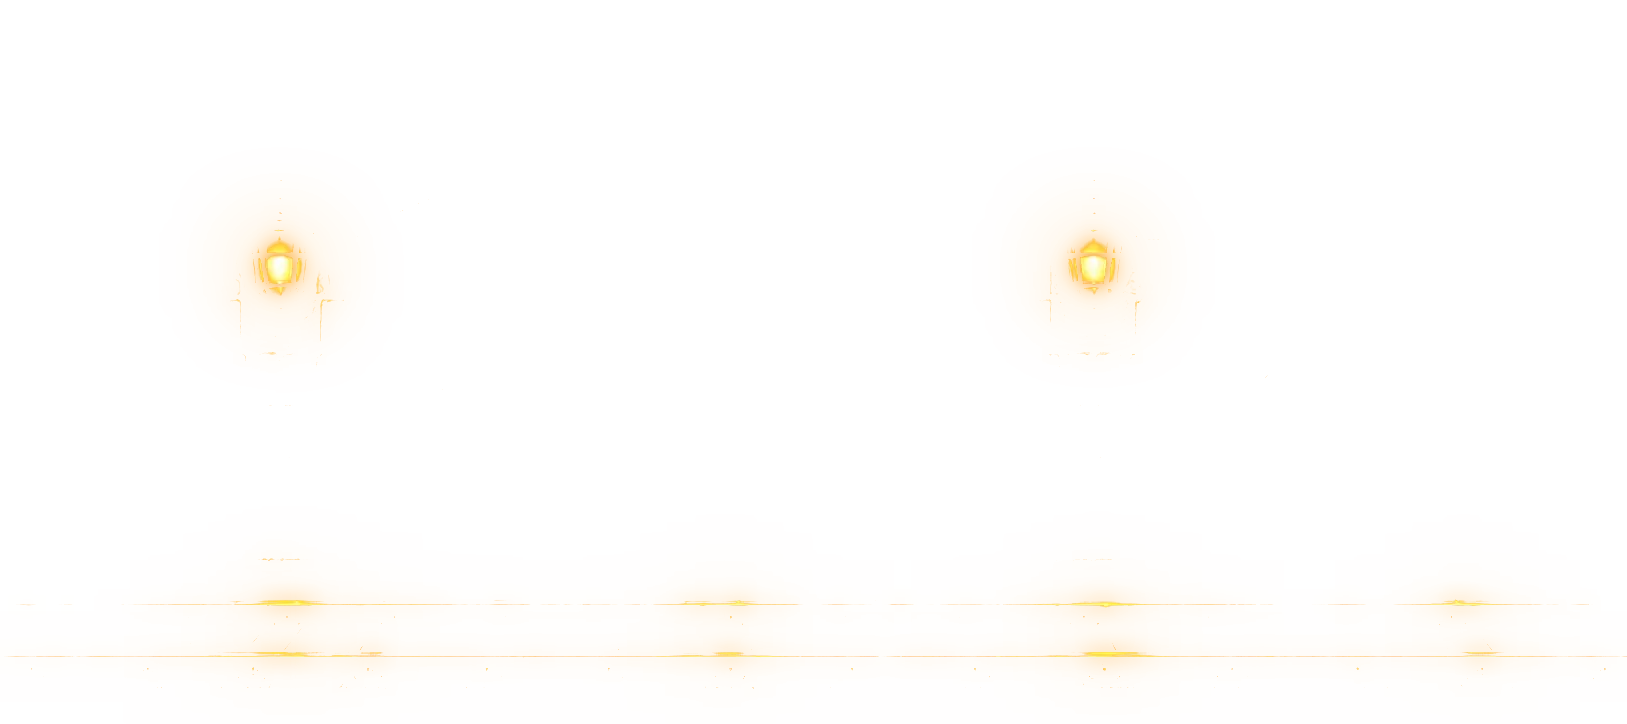
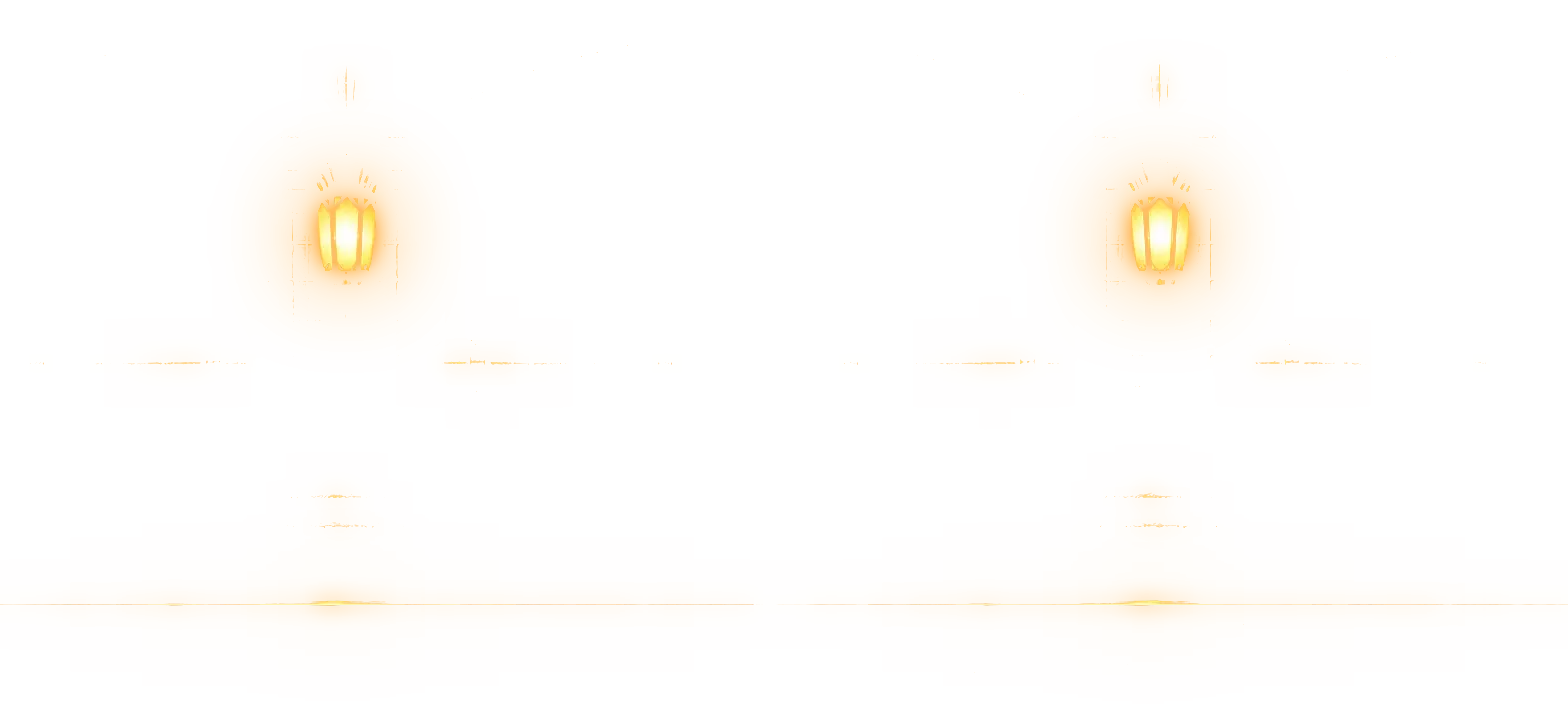
Express : la nouvelle image du tunnel, à la bonne proportion
Le tunnel (arches, piliers, lanternes) tient en entier dans la scène ; son rail est
calé sur la voie, sa tuile raccordée. Les lanternes et leur halo sont refaits
d'après la nouvelle image.

Claude-Session: https://claude.ai/code/session_01Vs3Q35NuqGK4HWxeJkBpbC

diff --git a/CasinoBaronExpress.tsx b/CasinoBaronExpress.tsx
@@ -97,7 +97,7 @@ const ISTANBUL = { terminus: 3300, coffre: 5000, ouverture: 6700, compte: 1900 }
 /** Entre deux décors, le train passe un tunnel : l'obscurité monte, les lampes défilent, puis le nouveau décor apparaît. */
 const TUNNEL = { duree: 2800, sortie: 1750 };
 /** L'image du tunnel (une tuile de 1627 × 724 qui se répète) : son rail avant est à la rangée 655, comme celui des décors. */
-const TUNNEL_IMG = { tuile: 1627, rail: 655 };
+const TUNNEL_IMG = { tuile: 1568, rail: 603 };
 /** Les éclairs de l'orage des Balkans (deux tombent juste avant les « CLAC »). */
 const ECLAIRS = [700, 3400, 5100, 8300, 10_700];
 
